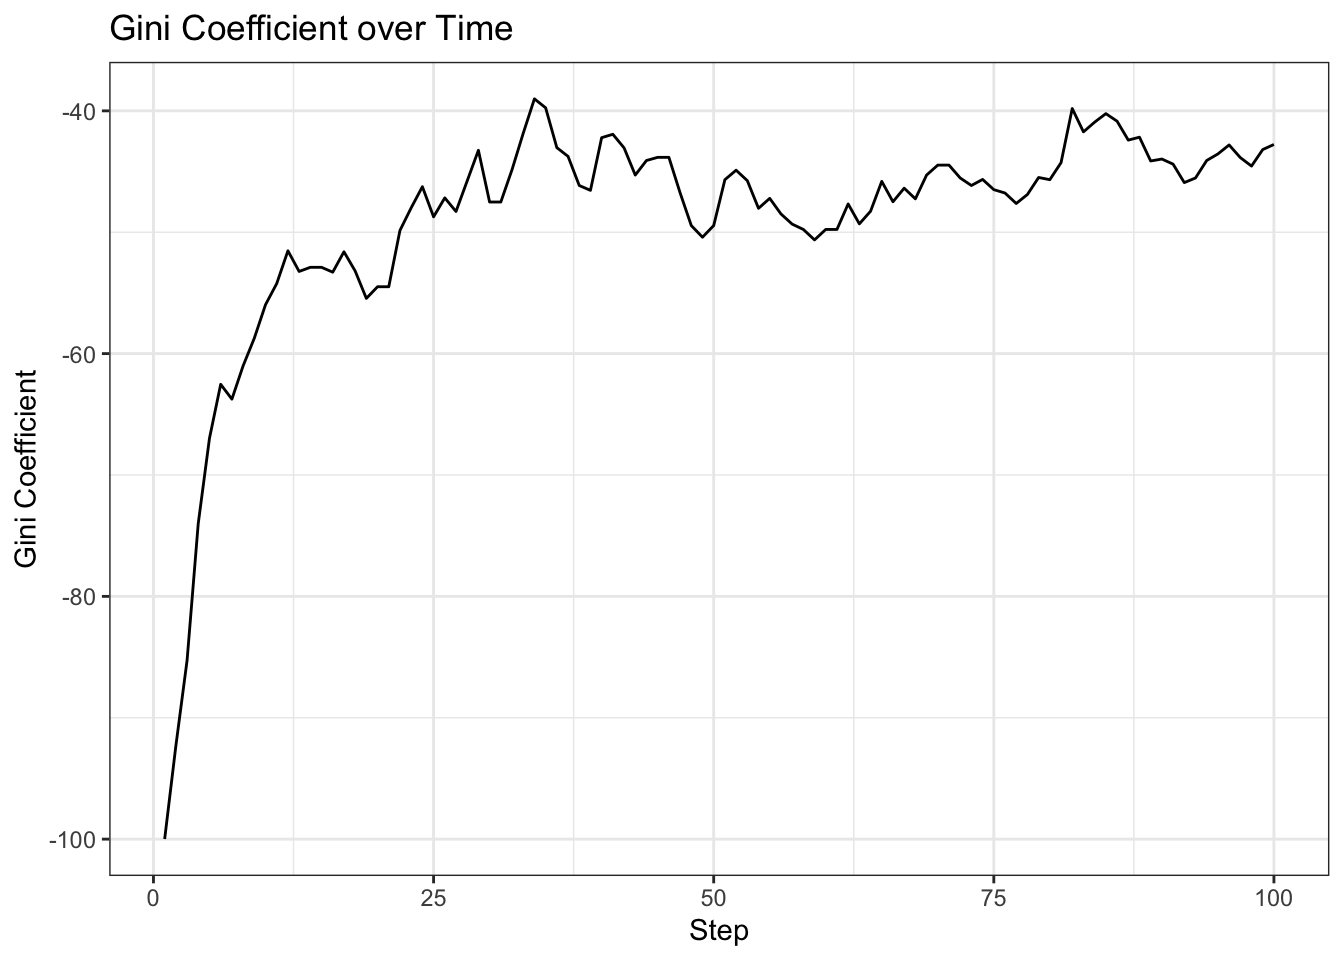
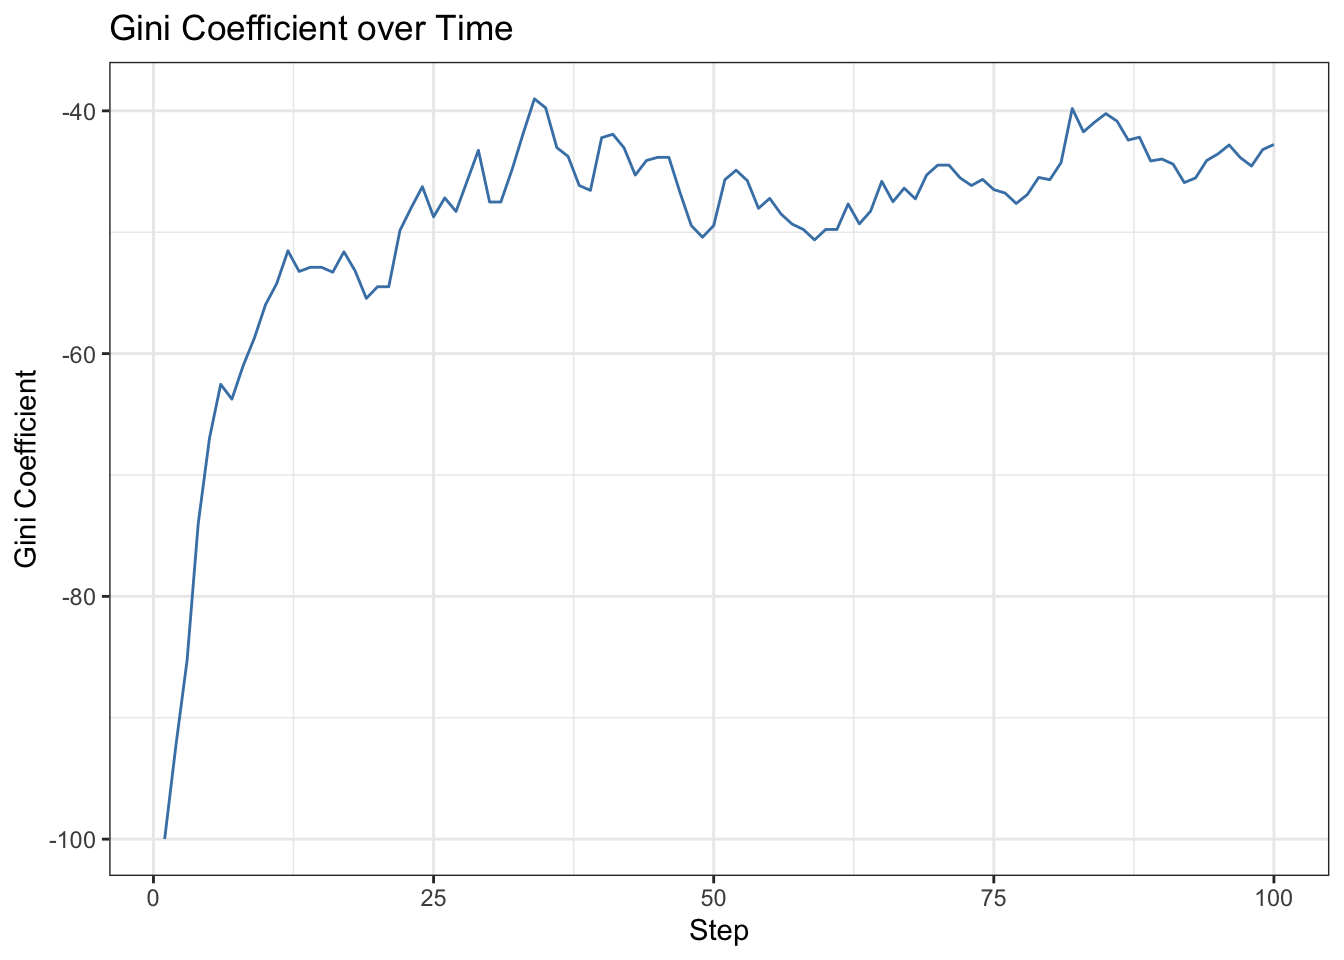
Use R more

diff --git a/docs/index.html b/docs/index.html
@@ -357,16 +357,16 @@ pre > code.sourceCode > span > a:first-child::before { text-decoration: underlin
 <span id="cb7-5"><a href="#cb7-5" aria-hidden="true" tabindex="-1"></a><span class="co">#运行模型的 step 方法，激活所有 Agent</span></span>
 <span id="cb7-6"><a href="#cb7-6" aria-hidden="true" tabindex="-1"></a>starter_model.step()</span></code><button title="Copy to Clipboard" class="code-copy-button"><i class="bi"></i></button></pre></div>
 <div class="cell-output cell-output-stdout">
-<pre><code>Hi, I am an agent, you can call me 7.
-Hi, I am an agent, you can call me 4.
-Hi, I am an agent, you can call me 9.
-Hi, I am an agent, you can call me 8.
-Hi, I am an agent, you can call me 5.
+<pre><code>Hi, I am an agent, you can call me 1.
 Hi, I am an agent, you can call me 3.
-Hi, I am an agent, you can call me 2.
 Hi, I am an agent, you can call me 10.
-Hi, I am an agent, you can call me 1.
-Hi, I am an agent, you can call me 6.</code></pre>
+Hi, I am an agent, you can call me 2.
+Hi, I am an agent, you can call me 7.
+Hi, I am an agent, you can call me 6.
+Hi, I am an agent, you can call me 4.
+Hi, I am an agent, you can call me 5.
+Hi, I am an agent, you can call me 8.
+Hi, I am an agent, you can call me 9.</code></pre>
 </div>
 </div>
 <p>如果在创建对象时传入了 <code>seed</code> 参数，则每次运行模型时 <code>Agent</code> 的顺序会保持一致。</p>
@@ -421,16 +421,16 @@ Hi, I am an agent, you can call me 8.</code></pre>
 <span id="cb11-28"><a href="#cb11-28" aria-hidden="true" tabindex="-1"></a>starter_model <span class="op">=</span> MoneyModel(<span class="dv">10</span>)</span>
 <span id="cb11-29"><a href="#cb11-29" aria-hidden="true" tabindex="-1"></a>starter_model.step()</span></code><button title="Copy to Clipboard" class="code-copy-button"><i class="bi"></i></button></pre></div>
 <div class="cell-output cell-output-stdout">
-<pre><code>Hi, I am an agent 9,and I have 1 dollars.
+<pre><code>Hi, I am an agent 2,and I have 1 dollars.
 Hi, I am an agent 5,and I have 1 dollars.
-Hi, I am an agent 2,and I have 1 dollars.
-Hi, I am an agent 3,and I have 1 dollars.
-Hi, I am an agent 10,and I have 1 dollars.
 Hi, I am an agent 1,and I have 1 dollars.
+Hi, I am an agent 4,and I have 1 dollars.
+Hi, I am an agent 10,and I have 1 dollars.
+Hi, I am an agent 6,and I have 1 dollars.
 Hi, I am an agent 7,and I have 1 dollars.
 Hi, I am an agent 8,and I have 1 dollars.
-Hi, I am an agent 4,and I have 1 dollars.
-Hi, I am an agent 6,and I have 1 dollars.</code></pre>
+Hi, I am an agent 3,and I have 1 dollars.
+Hi, I am an agent 9,and I have 1 dollars.</code></pre>
 </div>
 </div>
 </section>
@@ -1077,21 +1077,20 @@ Hi, I am an agent 6,and I have 1 dollars.</code></pre>
 <span id="cb36-42"><a href="#cb36-42" aria-hidden="true" tabindex="-1"></a>    <span class="co"># 在每个 step 中收集数据</span></span>
 <span id="cb36-43"><a href="#cb36-43" aria-hidden="true" tabindex="-1"></a>    <span class="va">self</span>.datacollector.collect(<span class="va">self</span>)</span>
 <span id="cb36-44"><a href="#cb36-44" aria-hidden="true" tabindex="-1"></a>    <span class="va">self</span>.agents.shuffle_do(<span class="st">"move"</span>)</span>
-<span id="cb36-45"><a href="#cb36-45" aria-hidden="true" tabindex="-1"></a>    <span class="va">self</span>.agents.do(<span class="st">"give_money"</span>)</span>
-<span id="cb36-46"><a href="#cb36-46" aria-hidden="true" tabindex="-1"></a>    </span>
-<span id="cb36-47"><a href="#cb36-47" aria-hidden="true" tabindex="-1"></a>model <span class="op">=</span> MoneyModel(<span class="dv">100</span>, <span class="dv">10</span>, <span class="dv">10</span>, <span class="dv">1234</span>)</span>
-<span id="cb36-48"><a href="#cb36-48" aria-hidden="true" tabindex="-1"></a><span class="cf">for</span> _ <span class="kw">in</span> <span class="bu">range</span>(<span class="dv">100</span>):</span>
-<span id="cb36-49"><a href="#cb36-49" aria-hidden="true" tabindex="-1"></a>    model.step()</span></code><button title="Copy to Clipboard" class="code-copy-button"><i class="bi"></i></button></pre></div>
+<span id="cb36-45"><a href="#cb36-45" aria-hidden="true" tabindex="-1"></a>    <span class="va">self</span>.agents.do(<span class="st">"give_money"</span>)</span></code><button title="Copy to Clipboard" class="code-copy-button"><i class="bi"></i></button></pre></div>
 </div>
 </section>
 <section id="获取-model_level-数据" class="level2" data-number="5.3">
 <h2 data-number="5.3" class="anchored" data-anchor-id="获取-model_level-数据"><span class="header-section-number">5.3</span> 获取 model_level 数据</h2>
 <div class="cell language-marker" data-display-language="true">
-<div class="sourceCode cell-code" id="cb37"><pre class="sourceCode python code-with-copy"><code class="sourceCode python"><span id="cb37-1"><a href="#cb37-1" aria-hidden="true" tabindex="-1"></a><span class="co"># Extract MoneyModel data in a Pandas dataframe</span></span>
-<span id="cb37-2"><a href="#cb37-2" aria-hidden="true" tabindex="-1"></a>gini <span class="op">=</span> model.datacollector.get_model_vars_dataframe()</span>
-<span id="cb37-3"><a href="#cb37-3" aria-hidden="true" tabindex="-1"></a>g <span class="op">=</span> sns.lineplot(data<span class="op">=</span>gini)</span>
-<span id="cb37-4"><a href="#cb37-4" aria-hidden="true" tabindex="-1"></a>g.<span class="bu">set</span>(title<span class="op">=</span><span class="st">"Gini Coefficient over Time"</span>, ylabel<span class="op">=</span><span class="st">"Gini Coefficient"</span>)<span class="op">;</span></span>
-<span id="cb37-5"><a href="#cb37-5" aria-hidden="true" tabindex="-1"></a>plt.show()</span></code><button title="Copy to Clipboard" class="code-copy-button"><i class="bi"></i></button></pre></div>
+<div class="sourceCode cell-code" id="cb37"><pre class="sourceCode python code-with-copy"><code class="sourceCode python"><span id="cb37-1"><a href="#cb37-1" aria-hidden="true" tabindex="-1"></a>model <span class="op">=</span> MoneyModel(<span class="dv">100</span>, <span class="dv">10</span>, <span class="dv">10</span>, <span class="dv">1234</span>)</span>
+<span id="cb37-2"><a href="#cb37-2" aria-hidden="true" tabindex="-1"></a><span class="cf">for</span> _ <span class="kw">in</span> <span class="bu">range</span>(<span class="dv">100</span>):</span>
+<span id="cb37-3"><a href="#cb37-3" aria-hidden="true" tabindex="-1"></a>    model.step()</span>
+<span id="cb37-4"><a href="#cb37-4" aria-hidden="true" tabindex="-1"></a></span>
+<span id="cb37-5"><a href="#cb37-5" aria-hidden="true" tabindex="-1"></a>gini <span class="op">=</span> model.datacollector.get_model_vars_dataframe()</span>
+<span id="cb37-6"><a href="#cb37-6" aria-hidden="true" tabindex="-1"></a>g <span class="op">=</span> sns.lineplot(data<span class="op">=</span>gini)</span>
+<span id="cb37-7"><a href="#cb37-7" aria-hidden="true" tabindex="-1"></a>g.<span class="bu">set</span>(title<span class="op">=</span><span class="st">"Gini Coefficient over Time"</span>, ylabel<span class="op">=</span><span class="st">"Gini Coefficient"</span>)<span class="op">;</span></span>
+<span id="cb37-8"><a href="#cb37-8" aria-hidden="true" tabindex="-1"></a>plt.show()</span></code><button title="Copy to Clipboard" class="code-copy-button"><i class="bi"></i></button></pre></div>
 <div class="cell-output-display">
 <div>
 <figure class="figure">
@@ -1107,11 +1106,11 @@ Hi, I am an agent 6,and I have 1 dollars.</code></pre>
 <span id="cb38-2"><a href="#cb38-2" aria-hidden="true" tabindex="-1"></a><span class="fu">walk</span>(<span class="dv">1</span><span class="sc">:</span><span class="dv">100</span>L, <span class="sc">~</span>model<span class="sc">$</span><span class="fu">step</span>())</span>
 <span id="cb38-3"><a href="#cb38-3" aria-hidden="true" tabindex="-1"></a></span>
 <span id="cb38-4"><a href="#cb38-4" aria-hidden="true" tabindex="-1"></a><span class="co"># 可以直接这样调用 python 的 function</span></span>
-<span id="cb38-5"><a href="#cb38-5" aria-hidden="true" tabindex="-1"></a>gini_r <span class="ot">=</span> model<span class="sc">$</span>datacollector<span class="sc">$</span><span class="fu">get_model_vars_dataframe</span>()  <span class="sc">%&gt;%</span>  </span>
+<span id="cb38-5"><a href="#cb38-5" aria-hidden="true" tabindex="-1"></a>gini <span class="ot">=</span> model<span class="sc">$</span>datacollector<span class="sc">$</span><span class="fu">get_model_vars_dataframe</span>()  <span class="sc">%&gt;%</span>  </span>
 <span id="cb38-6"><a href="#cb38-6" aria-hidden="true" tabindex="-1"></a>  <span class="fu">rownames_to_column</span>(<span class="st">"step"</span>) <span class="sc">%&gt;%</span> <span class="fu">mutate</span>(<span class="at">step =</span> <span class="fu">as.numeric</span>(step))</span>
-<span id="cb38-7"><a href="#cb38-7" aria-hidden="true" tabindex="-1"></a>gini_r <span class="sc">%&gt;%</span> </span>
+<span id="cb38-7"><a href="#cb38-7" aria-hidden="true" tabindex="-1"></a>gini <span class="sc">%&gt;%</span> </span>
 <span id="cb38-8"><a href="#cb38-8" aria-hidden="true" tabindex="-1"></a>  <span class="fu">ggplot</span>(<span class="fu">aes</span>(<span class="at">x =</span> step, <span class="at">y =</span> Gini)) <span class="sc">+</span></span>
-<span id="cb38-9"><a href="#cb38-9" aria-hidden="true" tabindex="-1"></a>  <span class="fu">geom_line</span>() <span class="sc">+</span></span>
+<span id="cb38-9"><a href="#cb38-9" aria-hidden="true" tabindex="-1"></a>  <span class="fu">geom_line</span>(<span class="at">color =</span> <span class="st">"steelblue"</span>) <span class="sc">+</span></span>
 <span id="cb38-10"><a href="#cb38-10" aria-hidden="true" tabindex="-1"></a>  <span class="fu">labs</span>(</span>
 <span id="cb38-11"><a href="#cb38-11" aria-hidden="true" tabindex="-1"></a>    <span class="at">title =</span> <span class="st">"Gini Coefficient over Time"</span>,</span>
 <span id="cb38-12"><a href="#cb38-12" aria-hidden="true" tabindex="-1"></a>    <span class="at">x     =</span> <span class="st">"Step"</span>,</span>
